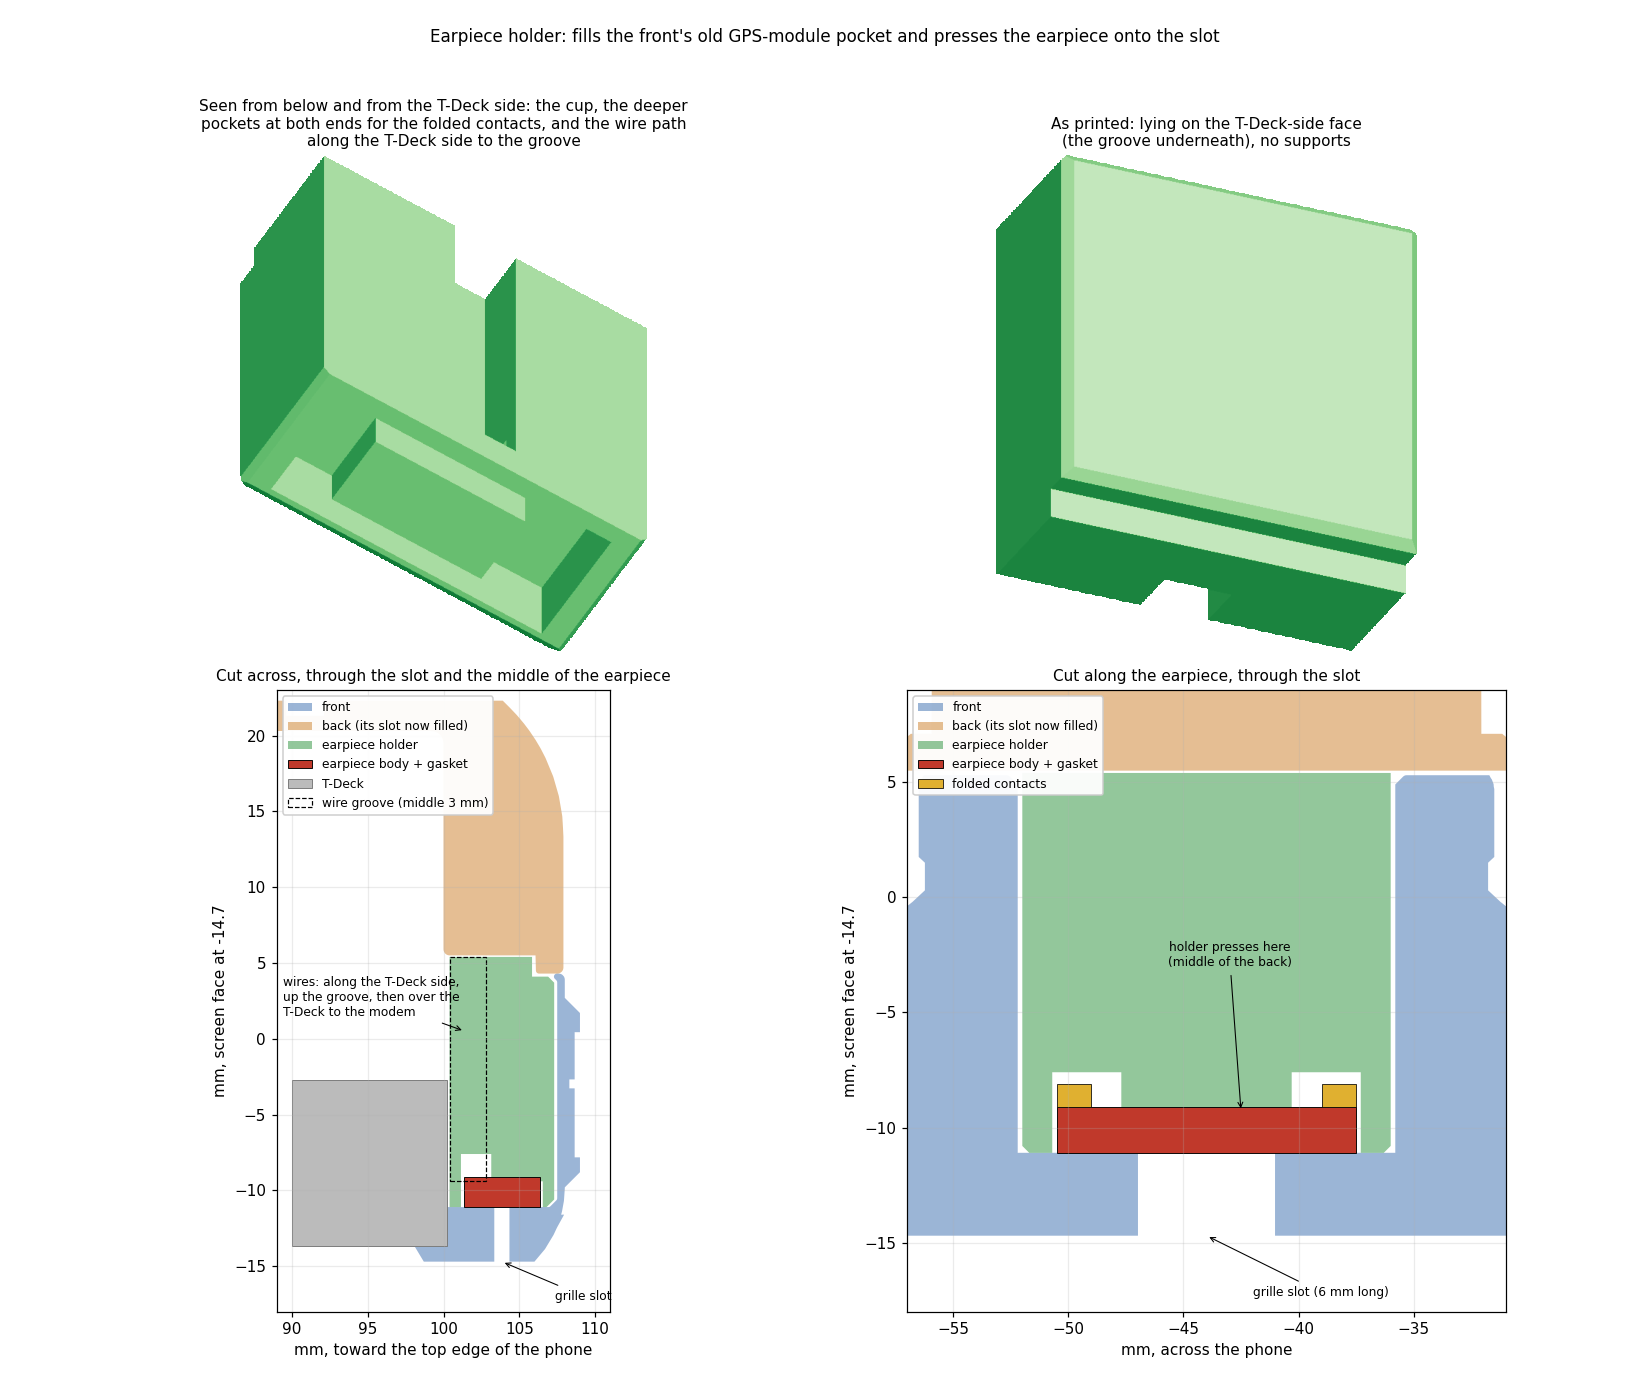
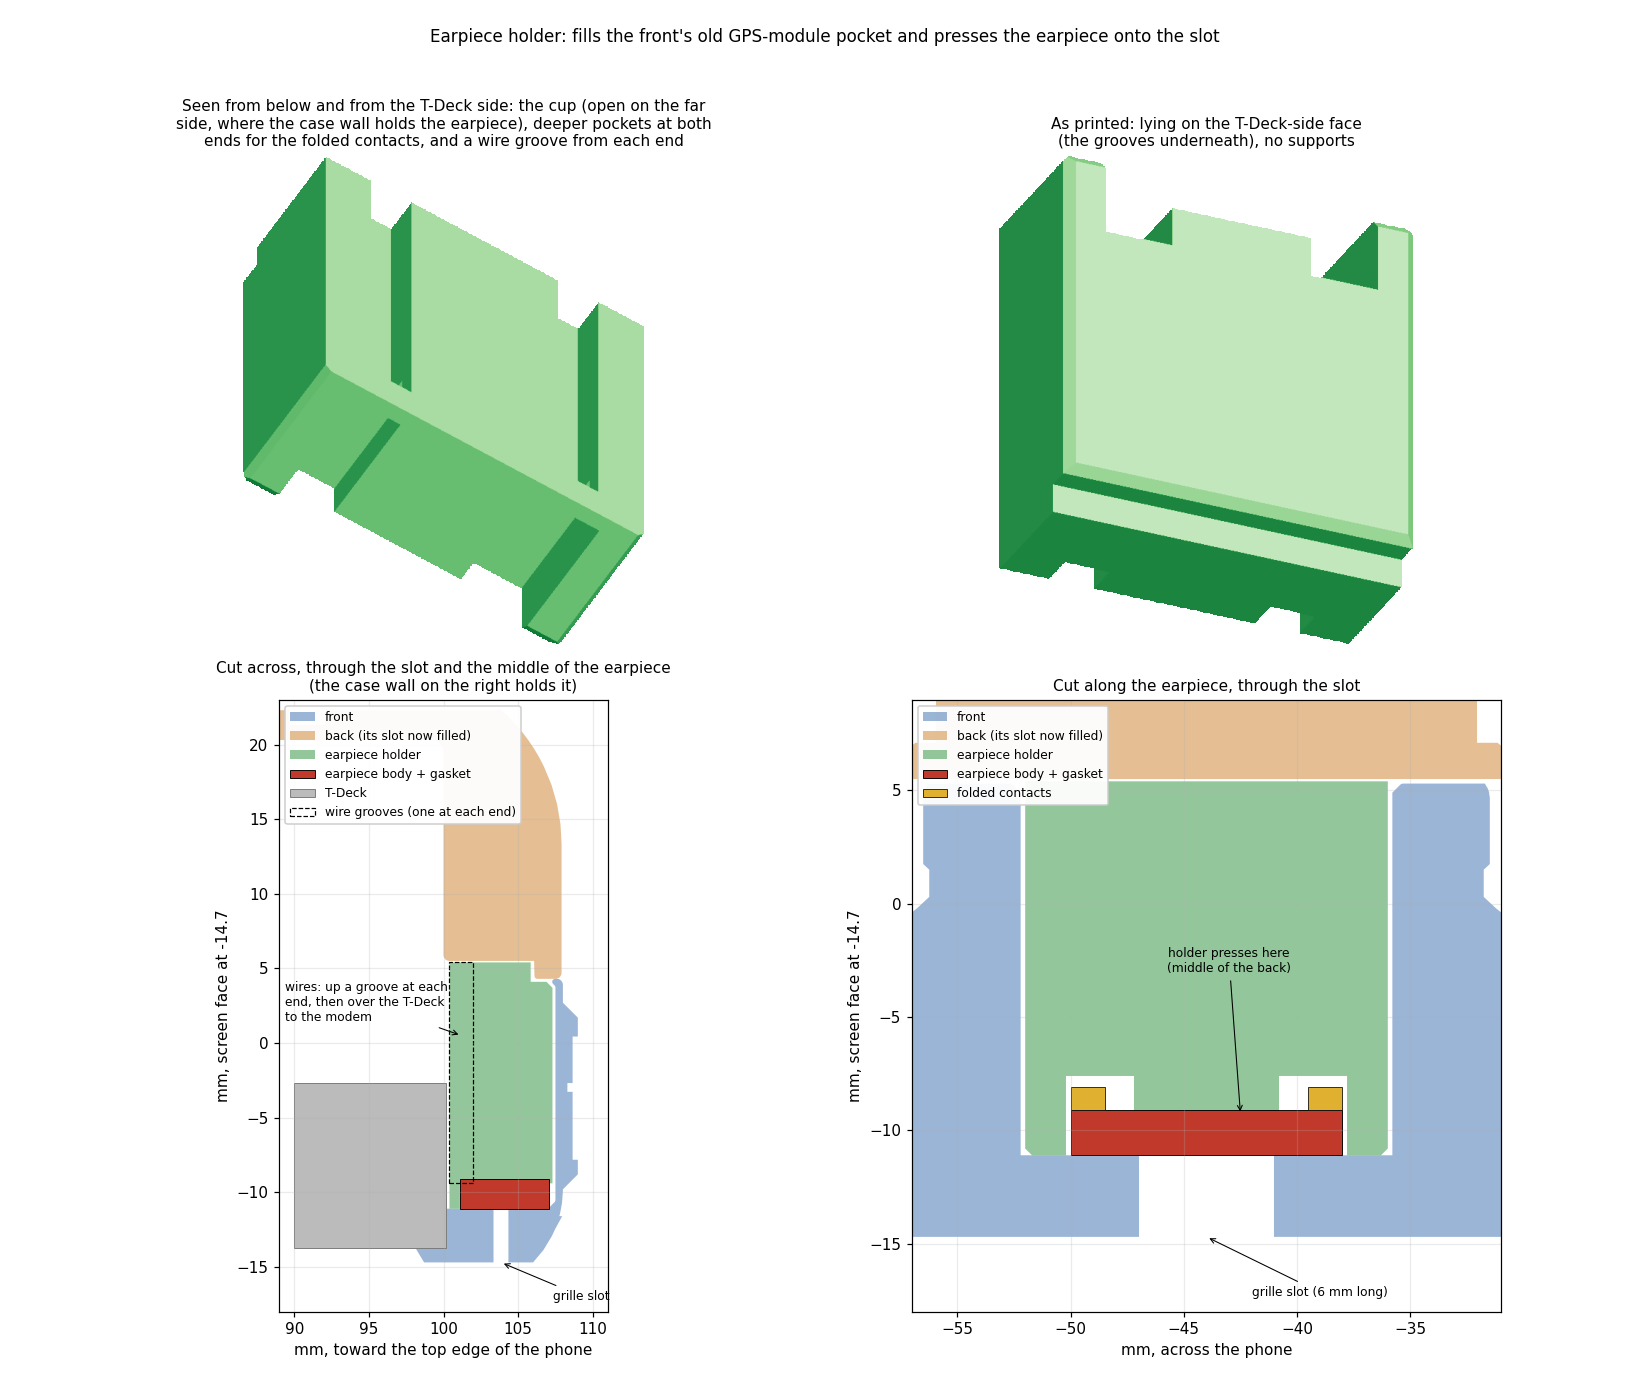
Earpiece holder for a 12 x 6 mm receiver
A 6 mm receiver leaves no room for walls on both sides inside the 6.9 mm
holder. The 12.4 mm cup now has a 0.7 mm wall on the T-Deck side only; on the
far side the pocket's own wall holds the receiver (6.4 mm of room). Each end
pocket for the folded contacts has its own 2 mm wire groove up the T-Deck-side
face. It prints on that face with no supports and still clears both case halves.

diff --git a/case/scripts/make_earpiece_holder.py b/case/scripts/make_earpiece_holder.py
@@ -16,10 +16,13 @@ toward the back (+z). Its walls end 1 mm above the mating face (z 4.3), at z 5.3
 closes over it (z 5.5). From z 4.3 up, the back's top wall comes in to y 106.09. The back's half of the old
 slot is filled solid (make_back.py), so the holder only has the front's part to fill.
 
-The earpiece (owner's photos, 4 Nov 2026) has a rubber gasket on its sound face and two spring contacts on its
-back, one at each short end. The contacts are folded over the back, which adds 1 mm. The holder presses on the
-middle of the back, has deeper pockets at both ends for the folded contacts and their solder joints, and a wire
-path along the T-Deck side of the cup to the groove.
+The earpiece (owner's photos, 4 Nov 2026) is 12 x 6 mm, about 2:1 in the photos. It has a rubber gasket on its
+sound face and two spring contacts on its back, one at each short end. The contacts are folded over the back,
+which adds 1 mm. At 6 mm wide it leaves too little room for a cup wall on both sides inside the 6.9 mm holder.
+So the cup is open on the far side (+y), where the pocket's own wall holds the earpiece, and walled only on the
+T-Deck side. The holder presses on the middle of the back, has deeper pockets at both ends for the folded
+contacts and their solder joints, and a wire groove up the T-Deck-side face from each end pocket. Every
+overhang is either a short bridge or open, so it prints on that face without supports.
 """
 import sys
 
@@ -38,11 +41,11 @@ SLOT_CENTRE = (-44.0, 103.85)     # the grille slot through the floor (x, y)
 TDECK_BACK_Z = -2.7               # back of the T-Deck (11 mm thick, screen side at -13.7)
 
 # ---- Earpiece: Micromax receiver, measured by the owner ------------------------------------------
-EAR_L, EAR_W = 13.0, 5.0                  # length (along x, including the small end tabs) and width
+EAR_L, EAR_W = 12.0, 6.0                  # length (along x, including the small end tabs) and width
 EAR_BODY_H = 2.0                          # body with its rubber gasket
 EAR_PIN_H = 1.0                           # the two spring contacts, folded over the back at the short ends
 PIN_ZONE = 3.0                            # how far in from each end the folded contacts and solder joints reach
-CUP_SPARE = 0.4                           # added to the length and width
+CUP_SPARE = 0.4                           # added to the length
 SQUEEZE = 0.3                             # the gasket is pressed this much onto the floor
 PIN_SPARE = 0.5                           # room above the folded contacts for solder and wire
 
@@ -53,9 +56,9 @@ HOLDER_Y = (POCKET_Y[0] + 0.2, POCKET_Y[1] - 0.2)                 # 6.9 mm
 BODY_TOP = MATING_Z - 0.2                 # full-width part stops under the back's top wall
 TONGUE_Y1 = BACK_WALL_Y - 0.25            # narrower top, beside the back's top wall
 TONGUE_TOP = BACK_BLOCK_Z - 0.1           # the back holds it down when the case is closed
-SIDE_CHANNEL_W = 2.0                      # wire path along the T-Deck side of the cup, from both ends to the groove
-GROOVE_W = 3.0                            # wire groove up the T-Deck-side face
-GROOVE_DEPTH = 2.4                        # from that face, reaching the wire path
+NEAR_WALL = 0.7                           # cup wall on the T-Deck side; the far side is the pocket's own wall
+GROOVE_W = 2.0                            # a wire groove up the T-Deck-side face from each end pocket
+GROOVE_DEPTH = 1.6                        # from that face, through the cup wall into the end pocket
 
 
 def prism_x(poly_yz, x0, x1):
@@ -99,15 +102,17 @@ def build_holder():
     body = trimesh.boolean.intersection([body, prism_y(end, y0 - 1, y1 + 1)], engine="manifold")
 
     cx, cy = SLOT_CENTRE
-    cl, cw = EAR_L + CUP_SPARE, EAR_W + CUP_SPARE
-    xa, xb, ya, yb = cx - cl / 2, cx + cl / 2, cy - cw / 2, cy + cw / 2
+    cl = EAR_L + CUP_SPARE
+    xa, xb = cx - cl / 2, cx + cl / 2
+    ya, yb = y0 + NEAR_WALL, y1 + 1                    # open on the far side, up to the pocket wall
+    assert POCKET_Y[1] - ya >= EAR_W + 0.2, "earpiece too wide for the pocket"
     press_z = FLOOR_Z + EAR_BODY_H - SQUEEZE           # presses on the middle of the earpiece's back
     pin_z = FLOOR_Z + EAR_BODY_H + EAR_PIN_H + PIN_SPARE
     cuts = [cuboid(xa, xb, ya, yb, z0 - 1, press_z),                    # the earpiece body
             cuboid(xa, xa + PIN_ZONE, ya, yb, z0, pin_z),               # folded contacts, one end
-            cuboid(xb - PIN_ZONE, xb, ya, yb, z0, pin_z),               # and the other
-            cuboid(xa, xb, ya, ya + SIDE_CHANNEL_W, z0, pin_z),         # wires from both ends to the groove
-            cuboid(cx - GROOVE_W / 2, cx + GROOVE_W / 2, y0 - 1, y0 + GROOVE_DEPTH, press_z, TONGUE_TOP + 1)]
+            cuboid(xb - PIN_ZONE, xb, ya, yb, z0, pin_z)]               # and the other
+    for gx in (xa + PIN_ZONE / 2, xb - PIN_ZONE / 2):                  # a wire groove from each end pocket
+        cuts.append(cuboid(gx - GROOVE_W / 2, gx + GROOVE_W / 2, y0 - 1, y0 + GROOVE_DEPTH, press_z, TONGUE_TOP + 1))
     holder = trimesh.boolean.difference([body, trimesh.boolean.union(cuts, engine="manifold")], engine="manifold")
     assert holder.is_watertight
     return holder
@@ -180,26 +185,28 @@ def draw(holder, front, back_f, path):
     fig = plt.figure(figsize=(15, 12.5), dpi=110)
     gs = fig.add_gridspec(2, 2, height_ratios=[1, 1.25])
     view(fig.add_subplot(gs[0, 0]), holder, (0.35, 0.55, 1.0), (0, 0, 1),
-         "Seen from below and from the T-Deck side: the cup, the deeper\npockets at both ends for the folded contacts, "
-         "and the wire path\nalong the T-Deck side to the groove")
+         "Seen from below and from the T-Deck side: the cup (open on the far\nside, where the case wall holds the "
+         "earpiece), deeper pockets at both\nends for the folded contacts, and a wire groove from each end")
     view(fig.add_subplot(gs[0, 1]), for_printing(holder), (0.45, 0.6, -1.0), (0, 1, 0),
-         "As printed: lying on the T-Deck-side face\n(the groove underneath), no supports")
+         "As printed: lying on the T-Deck-side face\n(the grooves underneath), no supports")
 
     ax = fig.add_subplot(gs[1, 0])
     xc = cx + 2.3                                   # through the slot and the middle of the cup, beside the groove
     cut(ax, 0, xc, (1, 2))
-    ax.add_patch(Rectangle((cy - EAR_W / 2, FLOOR_Z), EAR_W, EAR_BODY_H, label="earpiece body + gasket", **body_kw))
+    ear_y0 = HOLDER_Y[0] + NEAR_WALL
+    ax.add_patch(Rectangle((ear_y0, FLOOR_Z), EAR_W, EAR_BODY_H, label="earpiece body + gasket", **body_kw))
     ax.add_patch(Rectangle((90.0, -13.7), POCKET_Y[0] - 90.0, 11.0, fc="#bbbbbb", ec="#777", lw=0.6, label="T-Deck"))
     gy0 = HOLDER_Y[0]
     press_z = FLOOR_Z + EAR_BODY_H - SQUEEZE
     ax.add_patch(Rectangle((gy0, press_z), GROOVE_DEPTH, TONGUE_TOP - press_z, fill=False, ec="k", ls="--", lw=0.8,
-                           label="wire groove (middle 3 mm)"))
+                           label="wire grooves (one at each end)"))
     ax.annotate("grille slot", (cy, -14.7), (cy + 3.5, -17.2), fontsize=8, arrowprops=dict(arrowstyle="->", lw=0.7))
-    ax.annotate("wires: along the T-Deck side,\nup the groove, then over the\nT-Deck to the modem", (gy0 + 1.0, 0.5),
+    ax.annotate("wires: up a groove at each\nend, then over the T-Deck\nto the modem", (gy0 + 0.8, 0.5),
                 (89.4, 1.5), fontsize=8, arrowprops=dict(arrowstyle="->", lw=0.7))
     ax.set_xlim(89, 111); ax.set_ylim(-18, 23); ax.set_aspect("equal"); ax.grid(alpha=0.25)
     ax.set_xlabel("mm, toward the top edge of the phone"); ax.set_ylabel("mm, screen face at -14.7")
-    ax.set_title("Cut across, through the slot and the middle of the earpiece", fontsize=10)
+    ax.set_title("Cut across, through the slot and the middle of the earpiece\n(the case wall on the right holds it)",
+                 fontsize=10)
     ax.legend(loc="upper left", fontsize=8, framealpha=0.95)
 
     ax = fig.add_subplot(gs[1, 1])
@@ -226,7 +233,8 @@ def main(dst, picture=None, front_path=None, back_path=None):
     holder = build_holder()
     lo, hi = holder.bounds
     print(f"holder {hi[0] - lo[0]:.1f} x {hi[1] - lo[1]:.1f} x {hi[2] - lo[2]:.1f} mm, {holder.volume:.0f} mm^3; "
-          f"cup {EAR_L + CUP_SPARE:.1f} x {EAR_W + CUP_SPARE:.1f} mm, {EAR_BODY_H - SQUEEZE:.1f} deep in the middle, "
+          f"cup {EAR_L + CUP_SPARE:.1f} long with {POCKET_Y[1] - HOLDER_Y[0] - NEAR_WALL:.1f} mm of width up to the pocket wall, "
+          f"{EAR_BODY_H - SQUEEZE:.1f} deep in the middle, "
           f"{EAR_BODY_H + EAR_PIN_H + PIN_SPARE:.1f} deep over {PIN_ZONE:.1f} mm at each end")
     if front_path and back_path:
         front = trimesh.load(front_path, force="mesh")

diff --git a/case/scripts/make_diagrams.py b/case/scripts/make_diagrams.py
@@ -229,7 +229,7 @@ def front_inside(front, path):
     ax.text(*P((-80, 112, 0)), "← phone RIGHT", ha="left", fontsize=8, color="0.3")
     ax_key = fig.add_axes([0.56, 0.05, 0.42, 0.88])
     key(ax_key, [
-        (1, "Earpiece pocket (16.4 × 7.3 mm). The receiver\n(13 × 5 × 3 mm) lies on its floor, facing the slot.\nThe printed earpiece holder goes in on top and\nholds it down; the wires go up its groove."),
+        (1, "Earpiece pocket (16.4 × 7.3 mm). The receiver\n(12 × 6 × 3 mm) lies on its floor, facing the slot.\nThe printed earpiece holder goes in on top and\nholds it down; the wires go up its two grooves."),
         (2, "Mic pocket, entered from inside. Push the mic\nin until it touches the 1.2 mm skin, and glue it.\nDo this BEFORE the T-Deck goes in."),
         (3, "Wire groove: the mic's two wires go up here\nand through the notch in the lip, to the back."),
         (4, "Hex pocket of the top-left SMA cut-out\n(T-Deck's LoRa connector)."),

diff --git a/case/README.md b/case/README.md
@@ -26,7 +26,7 @@ Only these changes were made. The outer size and everything else are exactly as 
 centred under the GPS pocket, which measures 16.4 × 7.3 mm inside.
 
 - The receiver (the Micromax one) lies on the pocket floor, facing the slot, with its rubber gasket against the floor.
-  It is about 13 × 5 mm and 2 mm thick with the gasket. Its two spring contacts, folded over its back at the short
+  It is 12 × 6 mm and 2 mm thick with the gasket. Its two spring contacts, folded over its back at the short
   ends, make it 3 mm.
 - The [earpiece holder](#earpiece-holder) goes in on top of it and keeps it pressed down.
 
@@ -111,19 +111,22 @@ below), so the holder only fills the front's part.
 
 ![Earpiece holder: views, and a cut through the closed case](images/earpiece-holder.png)
 
-- **Cup:** the earpiece sits in a 13.4 × 5.4 mm cup on the holder's underside, centred over the slot.
+- **Cup:** the earpiece sits in a 12.4 mm long cup on the holder's underside, over the slot.
+  - **Sides:** the holder is only 6.9 mm wide, too narrow for a wall on both sides of a 6 mm earpiece. So the cup
+    has a 0.7 mm wall on the T-Deck side only, and is open on the far side. There the pocket's own wall holds the
+    earpiece, with 6.4 mm of room between the two walls.
   - **Middle:** the cup is 1.7 mm deep here, and the holder presses on the middle of the earpiece's back. That squeezes
     the 2 mm body and gasket 0.3 mm onto the pocket floor, sealing the sound path to the slot.
   - **Ends:** over the last 3 mm at each end the cup is 3.5 mm deep. That leaves room for the folded contacts (1 mm)
     and their solder joints.
 - **Held by the back:** the holder stands on the pocket floor, and its top ends 0.1 mm under the back's filled block.
   Once the case is closed, it can't lift.
-- **Wires:** from the solder joints at both ends, the wires run to the middle along a 2 mm path on the T-Deck side of
-  the cup. They then go up a 3 × 2.4 mm groove on the face toward the T-Deck, and over the T-Deck to the modem.
+- **Wires:** each end pocket has its own 2 mm groove up the face toward the T-Deck. Each wire goes straight up from
+  its solder joint, then over the T-Deck to the modem.
 - **Fit:** 0.2 mm clearance all round in the pocket. The script checks that it touches neither case half.
-- **If your earpiece is shorter:** at 12 mm it can slide about 1.4 mm along the cup, but it still covers the 6 mm
-  slot. A scrap of tape at one end of the cup centres it.
-- **Printing:** lay it on the face with the wire groove (the face toward the T-Deck). Then no supports are needed.
+- **If your earpiece measures differently:** the length and width are set at the top of
+  `scripts/make_earpiece_holder.py` (`EAR_L`, `EAR_W`). Change them and run it again.
+- **Printing:** lay it on the face with the wire grooves (the face toward the T-Deck). Then no supports are needed.
 
 ## Back: what changed
 

diff --git a/docs/assembly.md b/docs/assembly.md
@@ -65,9 +65,10 @@ Details and checks are in [wiring.md](wiring.md).
 
 1. **Earpiece** (front inside ①):
    - Fold its two spring contacts flat over its back, and solder a thin wire to each. Keep the joints small.
-   - Lay the receiver in the pocket, gasket side down, centred over the slot.
-   - Lay both wires along the holder's T-Deck side to the middle and up its groove. Then push the holder down over
-     the receiver until it sits on the pocket floor. The groove faces the T-Deck side.
+   - Lay the receiver in the pocket, gasket side down, over the slot, with one long side against the pocket's far
+     wall (the outer wall of the case).
+   - Put each wire into the groove at its end of the holder. Then push the holder down over the receiver until it
+     sits on the pocket floor. The grooves face the T-Deck side.
    - When the case is shut, the back's solid block between its two screw holes (back ⑭) closes over the holder,
      so it can't lift.
 2. **Mic** (front inside ②): push it into its pocket from inside until it touches the skin, and glue it. Lay its
@@ -117,5 +118,5 @@ Details and checks are in [wiring.md](wiring.md).
 - **SIM:** the card lines up with the slit and clicks into the holder.
 - **Battery:** it sits flat over the board with about 1 mm to spare under the T-Deck.
 - **Mic:** it fits its pocket. Print the mic test coupon first.
-- **Earpiece:** the receiver fits the holder's 13.4 × 5.4 mm cup. With the holder in, there's no rattle and the case
+- **Earpiece:** the receiver fits the holder's 12.4 mm cup, between the holder's wall and the pocket's far wall. With the holder in, there's no rattle and the case
   still closes fully.

diff --git a/docs/case.md b/docs/case.md
@@ -55,12 +55,12 @@ The earpiece and mic cuts are done (3 Nov 2026): [case/front-earpiece-mic.stl](.
 Full details are in [case/README.md](../case/README.md).
 
 - **Earpiece (done):** a 1 × 6 mm slot through the 3.6 mm face above the screen, centred under the GPS pocket.
-  - The receiver lies on the pocket floor facing the slot. It is about 13 × 5 mm. It is 2 mm thick with its rubber
+  - The receiver lies on the pocket floor facing the slot. It is 12 × 6 mm. It is 2 mm thick with its rubber
     gasket, and 3 mm with its two contacts folded over its back.
   - **Earpiece holder (done, 4 Nov 2026):** [case/earpiece-holder.stl](../case/earpiece-holder.stl). It is a printed
     block that fills the pocket and presses on the middle of the receiver's back (a 1.7 mm cup, 3.5 mm deep at
-    both ends for the folded contacts). It runs the wires up a groove toward the T-Deck, and the back closes 0.1 mm
-    above it.
+    both ends for the folded contacts). The cup is open on its far side, where the pocket wall holds the 6 mm
+    receiver. Each wire goes up its own groove toward the T-Deck, and the back closes 0.1 mm above the holder.
 - **Microphone (done):** bottom edge, 15 mm left of the USB-C opening as you look at the screen. That corner points
   toward the mouth when the phone is at the right ear.
   - A 6.3 mm pocket opens on the inside, with a 1.2 mm skin and a 1.5 mm sound hole.
